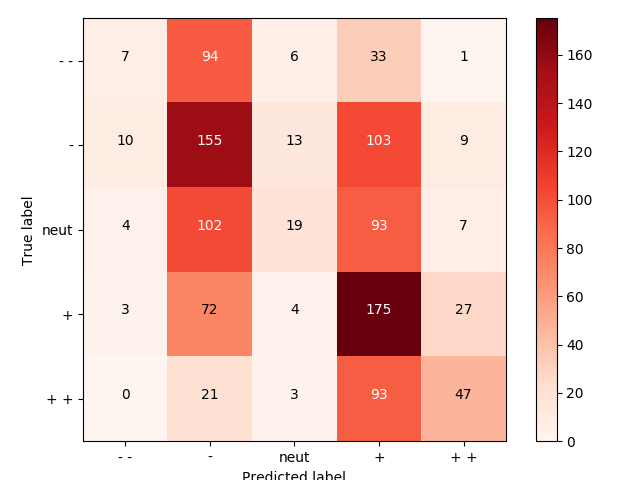
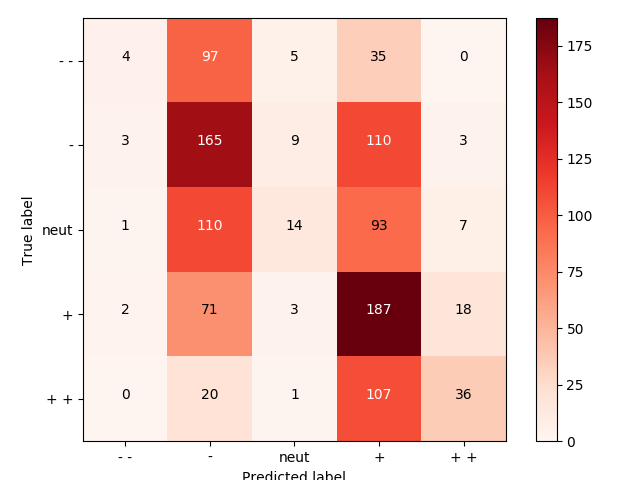
"Comments added to sentiment.py"

diff --git a/q4_sentiment.py b/q4_sentiment.py
@@ -65,9 +65,11 @@ def getRegularizationValues():
     values = None   # Assign a list of floats in the block below
     ### YOUR CODE HERE
     values = np.logspace(-6,0.1,21)
-    values = np.hstack([0, values])
+    #values = np.logspace(-6,2.0,25)
+    # The sentiment models are rather insensitive to regularization values.
+    # The second set displays a falloff of accuracy with as values exceed 1.
     ### END YOUR CODE
-    return values
+    return sorted(values)
 
 
 def chooseBestModel(results):
